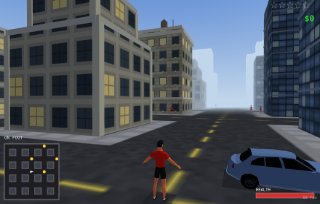
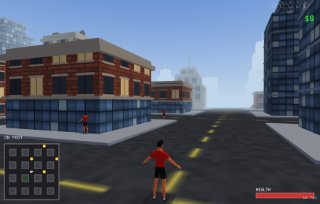
Make Grand Theft Moore sidewalks 3D (raised curbs)
Sidewalks were flat pixels painted on the ground plane. Add real geometry:
a raised concrete curb ring (SW-wide, 0.2u tall) around every block lot,
built as four abutting slab strips in the flat mesh. Lambert shading darkens
the vertical curb faces so the step up from the road reads clearly.

To keep peds and the player from sinking into the raised curb, add a
draw-time _groundY(x,z) that returns the curb height over SIDEWALK tiles;
_drawPed lifts the body and its ground shadow by it. Render-only — city
layout, collision, and gameplay are unchanged (grid collision already
treated the sidewalk as walkable at ground level).

Adds ~3k static triangles. Headless tests 34/34; WebGL inits with zero
errors. Refreshes the arcade thumbnail.

Claude-Session: https://claude.ai/code/session_01U5uQqeUJSMhTcaZGTHLpZK

diff --git a/grand-theft-moore/src/render.js b/grand-theft-moore/src/render.js
@@ -454,6 +454,14 @@ export class Renderer {
       const H = (s) => h2(bx * 137 + s * 31 + 7, bz * 211 + s * 53 + 3);
       this._buildBuilding(M, flat, { bx, bz, kind, x0, z0, x1, z1, hh, H });
     }
+    // raised 3D sidewalk curbs — a concrete ring around EVERY block lot
+    // (parks included). The SW-wide frame sits between the road corridor and the
+    // building footprint, lifted CURB_H above the road. Render-only: collision
+    // is unchanged; peds/player are lifted onto the curb in _drawPed.
+    for (let bz = 0; bz < NB; bz++) for (let bx = 0; bx < NB; bx++) {
+      const ox = bx * P, oz = bz * P;
+      this._curbRing(flat, ox + ROAD, oz + ROAD, ox + P, oz + P, SW);
+    }
     // trees in parks
     for (const pr of props || []) {
       const th = pr.h || 3.5, tr = 0.9;
@@ -490,6 +498,24 @@ export class Renderer {
     this._wallSeg(mesh, [x0, z0], [x0, z1], y0, y1, col, div, uOff, vOff);
     this._wallSeg(mesh, [x0, z1], [x1, z1], y0, y1, col, div, uOff, vOff);
     this._wallSeg(mesh, [x1, z0], [x0, z0], y0, y1, col, div, uOff, vOff);
+  }
+
+  // raised sidewalk ring: 4 concrete curb strips (a frame of width w, height
+  // CURB_H) filling [x0,x1]x[z0,z1] minus the inner footprint. Lambert shading
+  // darkens the vertical curb faces so it reads clearly 3D against the road.
+  _curbRing(flat, x0, z0, x1, z1, w) {
+    const col = [0.54, 0.54, 0.575, 0], y = CURB_H;
+    // N (low z) and S (high z) strips span the full width, including corners;
+    // W and E strips fill the gap between them (abutting, no overlap).
+    flat.box(x0, 0, z0, x1, y, z0 + w, col);
+    flat.box(x0, 0, z1 - w, x1, y, z1, col);
+    flat.box(x0, 0, z0 + w, x0 + w, y, z1 - w, col);
+    flat.box(x1 - w, 0, z0 + w, x1, y, z1 - w, col);
+  }
+  // draw-time ground height: entities standing on a sidewalk tile ride the curb
+  _groundY(x, z) {
+    const c = this._cityRef;
+    return (c && c.tileAt(x, z) === TILE.SIDEWALK) ? CURB_H : 0;
   }
 
   // low wall ringing a flat roof (four thin boxes on the inside edge)
@@ -894,7 +920,7 @@ export class Renderer {
     for (const en of ents) {
       if ((en.x - ex) ** 2 + (en.z - ez) ** 2 > FAR * FAR) continue;
       if (en.kind === 'ped') {
-        const parent = mat4.fromTRS(en.x, 0, en.z, en.heading || 0, 1, 1, 1);
+        const parent = mat4.fromTRS(en.x, this._groundY(en.x, en.z), en.z, en.heading || 0, 1, 1, 1);
         this._boxIn(parent, 0, 0.03, 0, 0.85, 0.02, 0.85, SHADOW, 0.32);
       } else {
         const parent = mat4.fromTRS(en.x, 0, en.z, en.heading || 0, 1, 1, 1);
@@ -955,7 +981,7 @@ export class Renderer {
   }
 
   _drawPed(e) {
-    const y = e.y || 0;
+    const y = (e.y || 0) + this._groundY(e.x, e.z);
     const parent = mat4.fromTRS(e.x, y, e.z, e.heading || 0, 1, 1, 1);
 
     // --- real CC0 character model (upright peds + player; y carries jump) --
@@ -999,6 +1025,7 @@ export class Renderer {
 }
 
 const WHITE = new Float32Array([1, 1, 1]);
+const CURB_H = 0.2;   // raised sidewalk height (world units)
 const IDENT = mat4.identity();
 const SHADOW = new Float32Array([0.04, 0.04, 0.06]);
 const GLASS = new Float32Array([0.28, 0.33, 0.42]);